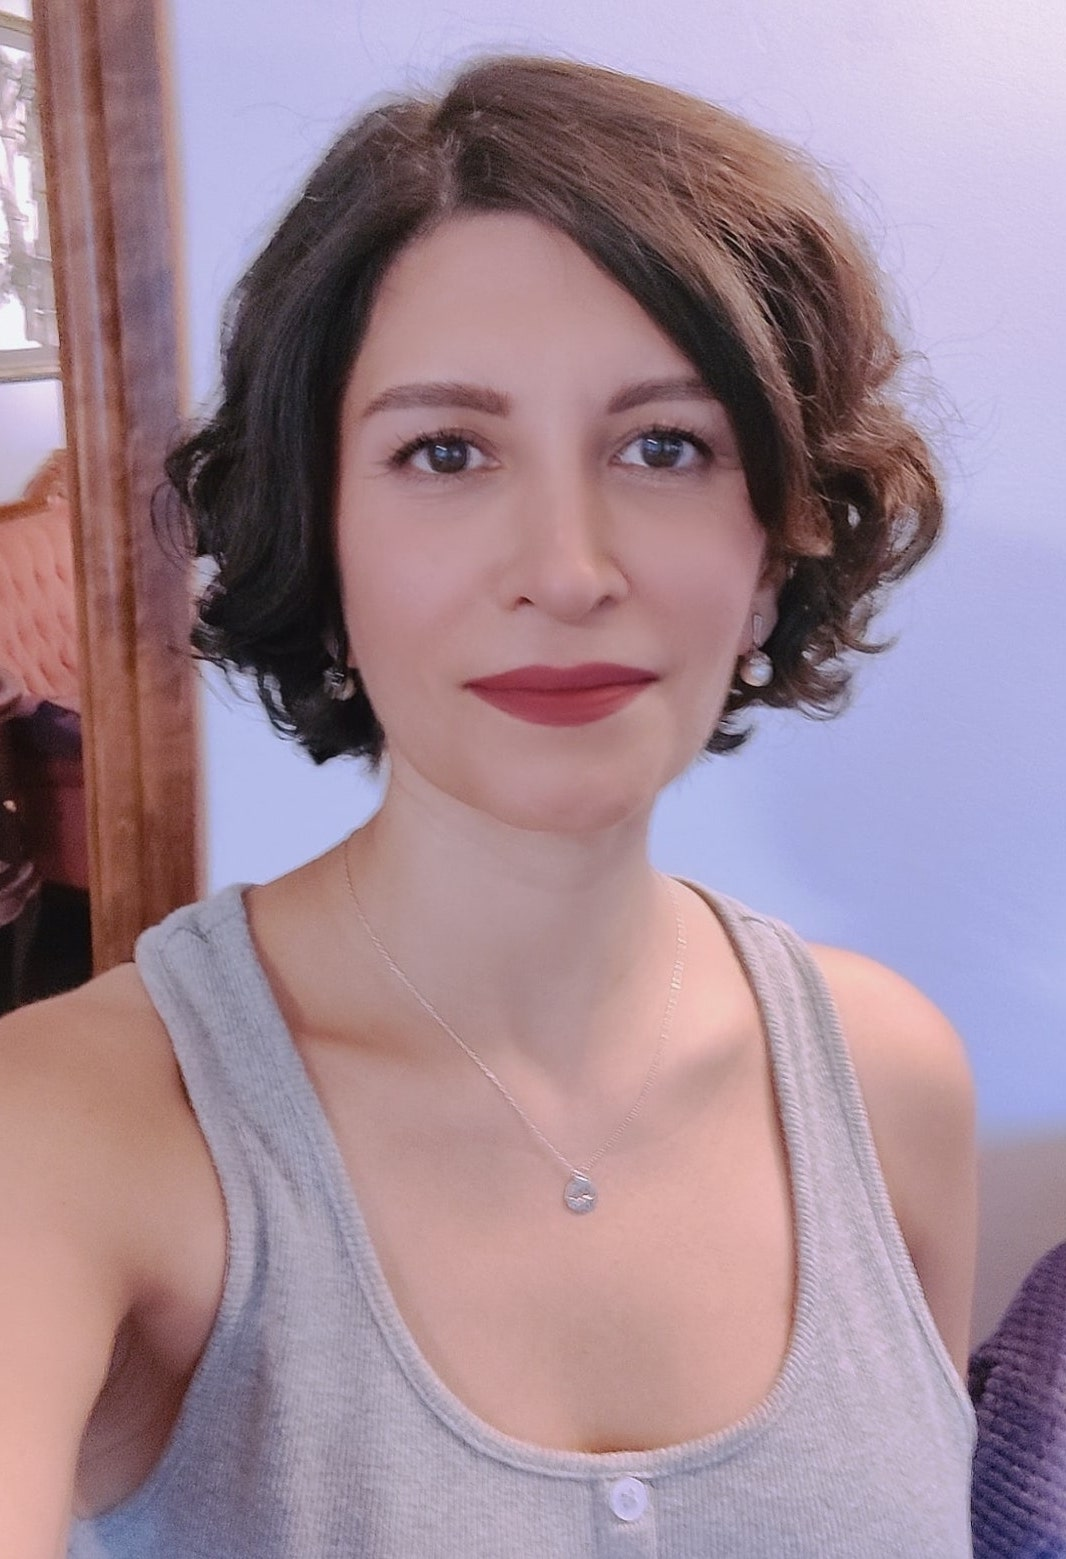
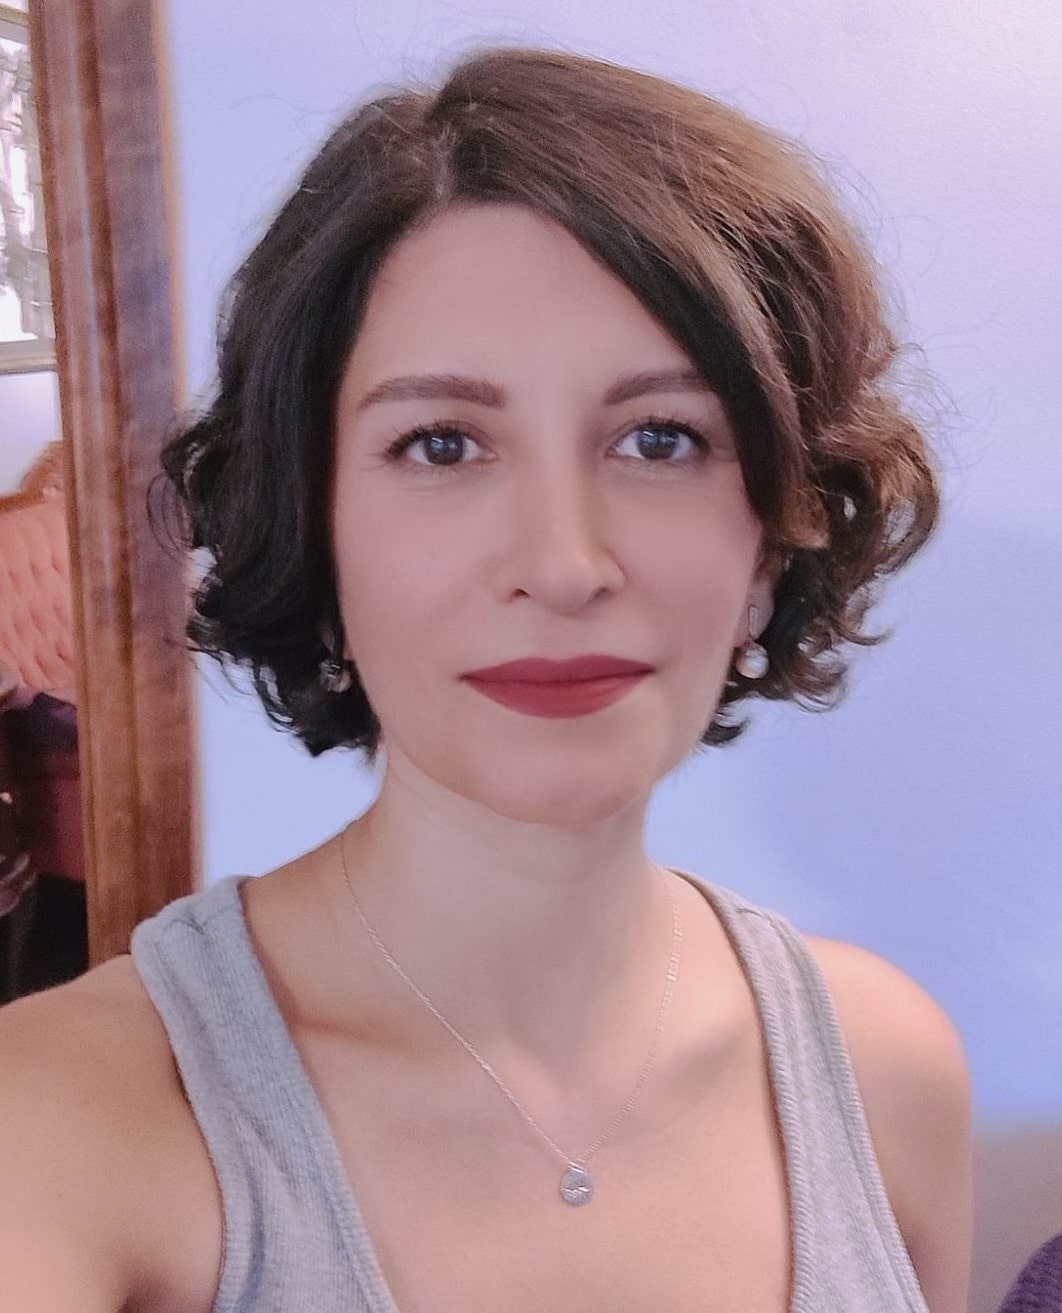
about styling

diff --git a/frontend_react/src/components/About/About.jsx b/frontend_react/src/components/About/About.jsx
@@ -9,12 +9,19 @@ const About = () => {
   return (
     <>  
       <h2 className="head-text">About</h2>
-      <div className="app__profiles">
-        <img className="app__about-img" src={images.laleh} alt="laleh" />
-        <p><span>Hello, I am Laleh!</span><br /> I am a software enginner with a thirst for knowledge and passion for technology. My interest in programming started as a hobby; within a few months my enthusiasm led to my enrolment in a software engineering course at General Assembly. <br/> <br/>
-        I like programming because it is challenging. It gets me out of my comfort zone. There is always a new technique that will help solving harder problems. <br /> < br />
-        I would describe myself as someone who is mentally tough, disciplined and great in a team as well as working alone. Working within the healthcare industry gave me the ability to adapt and work under pressure. I am looking for opportunities where I can further develop my knowledge  as a software engineer.</p>
+
+      <div className="app__about-container">
+            <img src={images.me} alt="me" />
+            <p><span>Hello, I am Laleh!</span><br /> <br />A junior software engineer from London with a thirst for knowledge and love for 
+            technology. My interest in programming started as a hobby; within a few months my enthusiasm led to my enrolment in a 
+            software engineering course at General Assembly where I developed my skills and gained invaluable knowledge.  <br/> <br/>
+            Being a natural problem solver gave me a natural inclination towards finding solutions to challenges, often with creative 
+            resourceful approaches. I believe this is a valuable skill in many fields and would contribute to my success and fulfilment
+            in both professional and personal life. <br /> < br />
+            I would describe myself as someone who is mentally tough, loves challenges, disciplined and great on a team as well as 
+            working alone. Working within the healthcare industry gave me the ability to adapt and work under pressure. </p>
       </div>
+      
     </>
   )
 }

diff --git a/frontend_react/src/components/About/About.scss b/frontend_react/src/components/About/About.scss
@@ -8,58 +8,50 @@
   flex-direction: column;
 }
 
-h2 {
-  margin-top: 1rem;
-}
-
-.app__profiles {
+.app__about-container {
+  width: 100%;
   display: flex;
-  flex-direction: row;
+  flex-wrap: nowrap;
   justify-content: center;
-  align-items: flex-start;
-  // flex-wrap:inherit;
-  margin-top: 3.5rem;
-  padding: 3rem 7rem;
-  border-radius: 20px;
-  box-shadow: 0 0 30px rgb(88, 87, 86);
-  // margin-left: 80px;
-  // margin-right: 80px;
-
-  @media screen and (max-width: 450px) {
-    // width: 70px;
-    // height: 70px;
-    flex-direction: column;
-  }
-
-
-  p {
-    font-size: 17px;
-    color: var(--gray-color);
-    text-align: justify;
-    line-height: 1.6;
-    // font-kerning: normal;
-    padding: 2rem 2rem 2rem 2rem;
-    
-  } 
-
-  span {
-    color: rgb(230, 35, 148);
-    font-size: 20px;
-  }
+  align-items: center;
+  margin-top: 170px;
+  margin: 50px;
   
-  img {
-    width: 25%;
-    object-fit: contain;
-    padding-left: 1rem;
-
+  &:hover {
+    box-shadow: 0 0 30px rgb(88, 87, 86);
+    border-radius: 20px;
+    padding: 1rem;
+  }
 
   @media screen and (max-width: 1200px) {
     width: 100%;
-    margin-right: 0rem;
+    flex-wrap: wrap;
+    img {
+      width: 50%;  
+    }
   }
+}
 
 
-  }
+
+
+
+img {
+  width: 25%;
+  border-radius: 20px;
+  margin: 50px;
+}
+
+
+p {
+  color: azure;
+  padding: 40px;
+  text-align: justify;
+  font-size: 20px;
+}
+
+h2 {
+  margin-bottom: 60px;
 }
 
 

diff --git a/frontend_react/src/constants/images.js b/frontend_react/src/constants/images.js
@@ -8,7 +8,7 @@ import redux from '../assets/redux.png'
 import sass from '../assets/sass.png'
 import logo from '../assets/logo.png'
 import laleh from '../assets/laleh.png'
-
+import me from '../assets/me.jpg'
 
 
 
@@ -23,4 +23,5 @@ export default {
   sass,
   logo,
   laleh,
+  me,
 }

diff --git a/frontend_react/src/components/Projects/Projects.scss b/frontend_react/src/components/Projects/Projects.scss
@@ -81,7 +81,7 @@
 
 .app__projects-img {
   width: 100%;
-  height: 230px;
+  height: 200px;
 
   position: relative;
 
